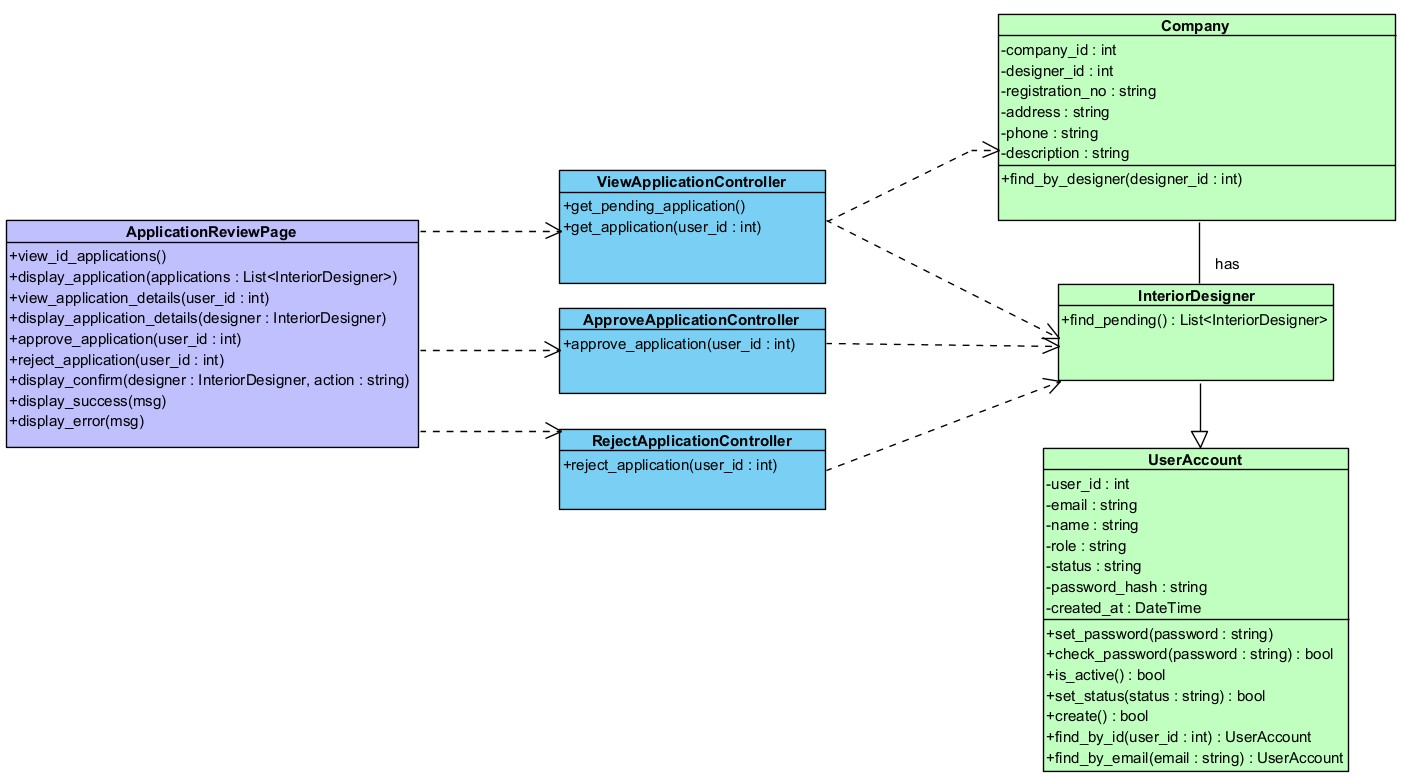
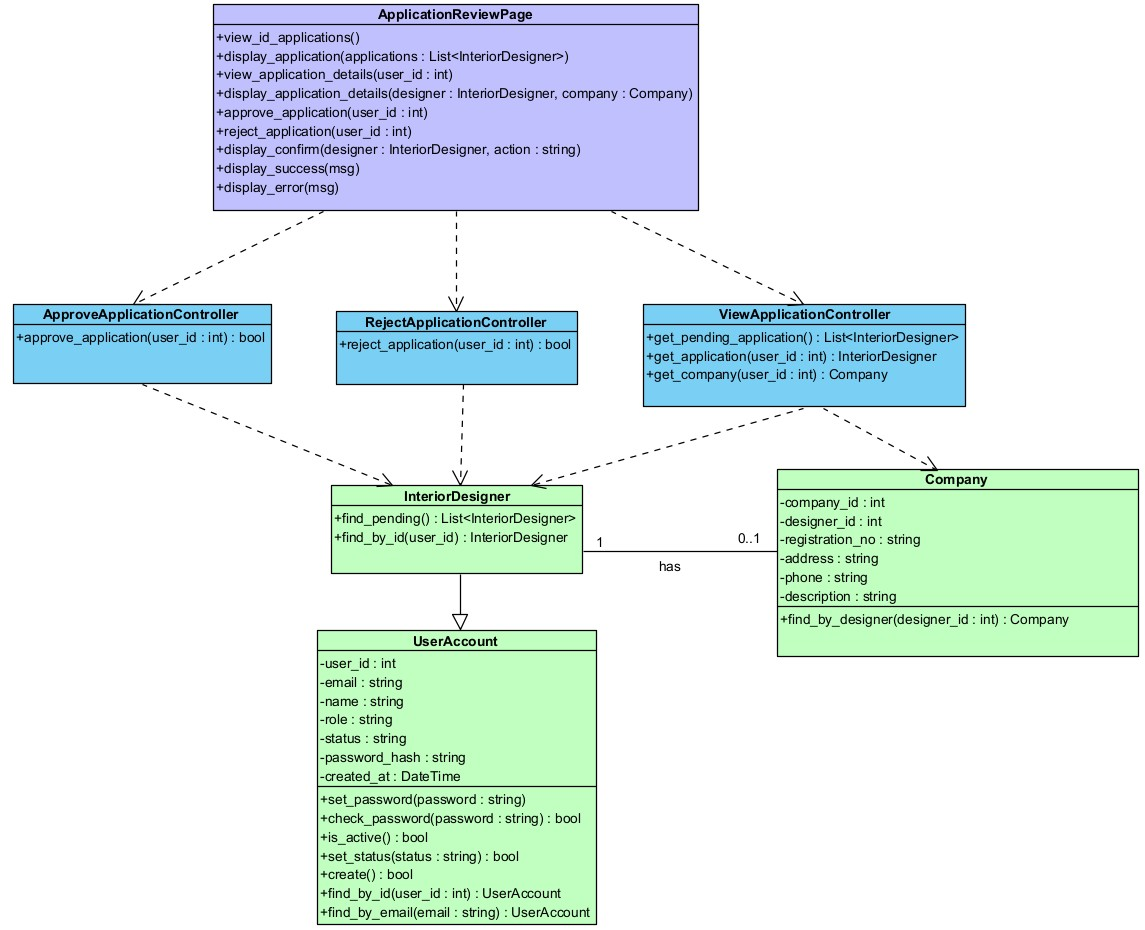
added sprint2 userAdmin diagrams

diff --git a/app/control/admin_controllers.py b/app/control/admin_controllers.py
@@ -17,15 +17,6 @@ class ViewApplicationController:
     def get_pending_application(self):
         return InteriorDesigner.find_pending()
 
-    def get_application(self, user_id):
-        designer = _find_pending(user_id)
-        if designer is None:
-            self.errors.append("Application not found or no longer pending")
-        return designer
-    
-    def get_company (self, user_id):
-        return Company.find_by_designer(user_id)
-
 
 class ApproveApplicationController:
     def __init__(self):
